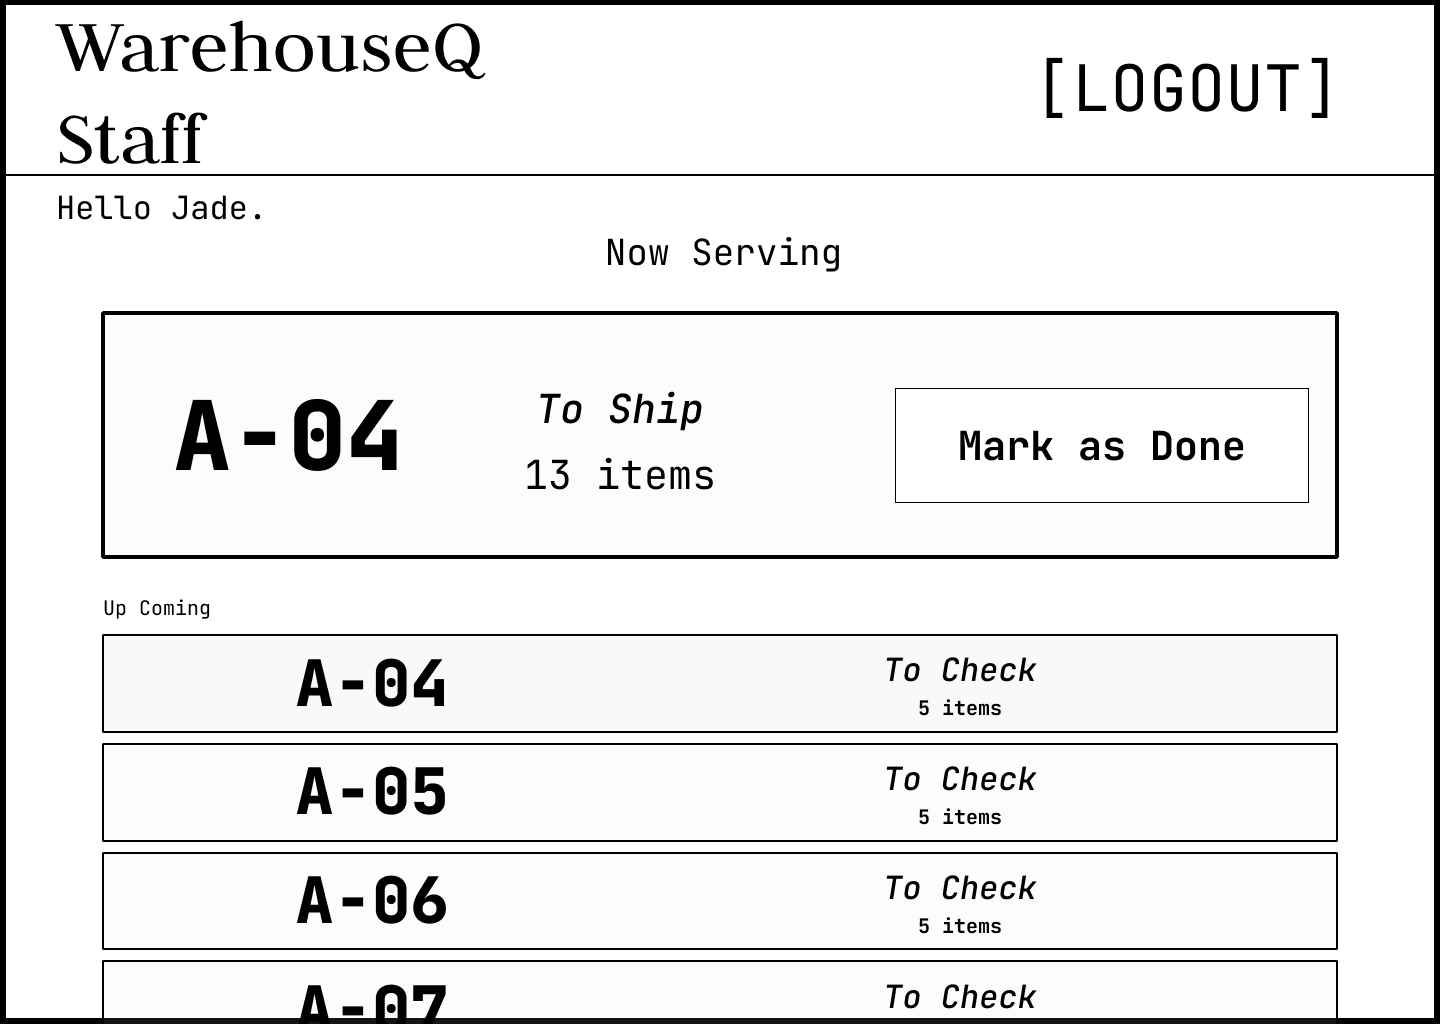
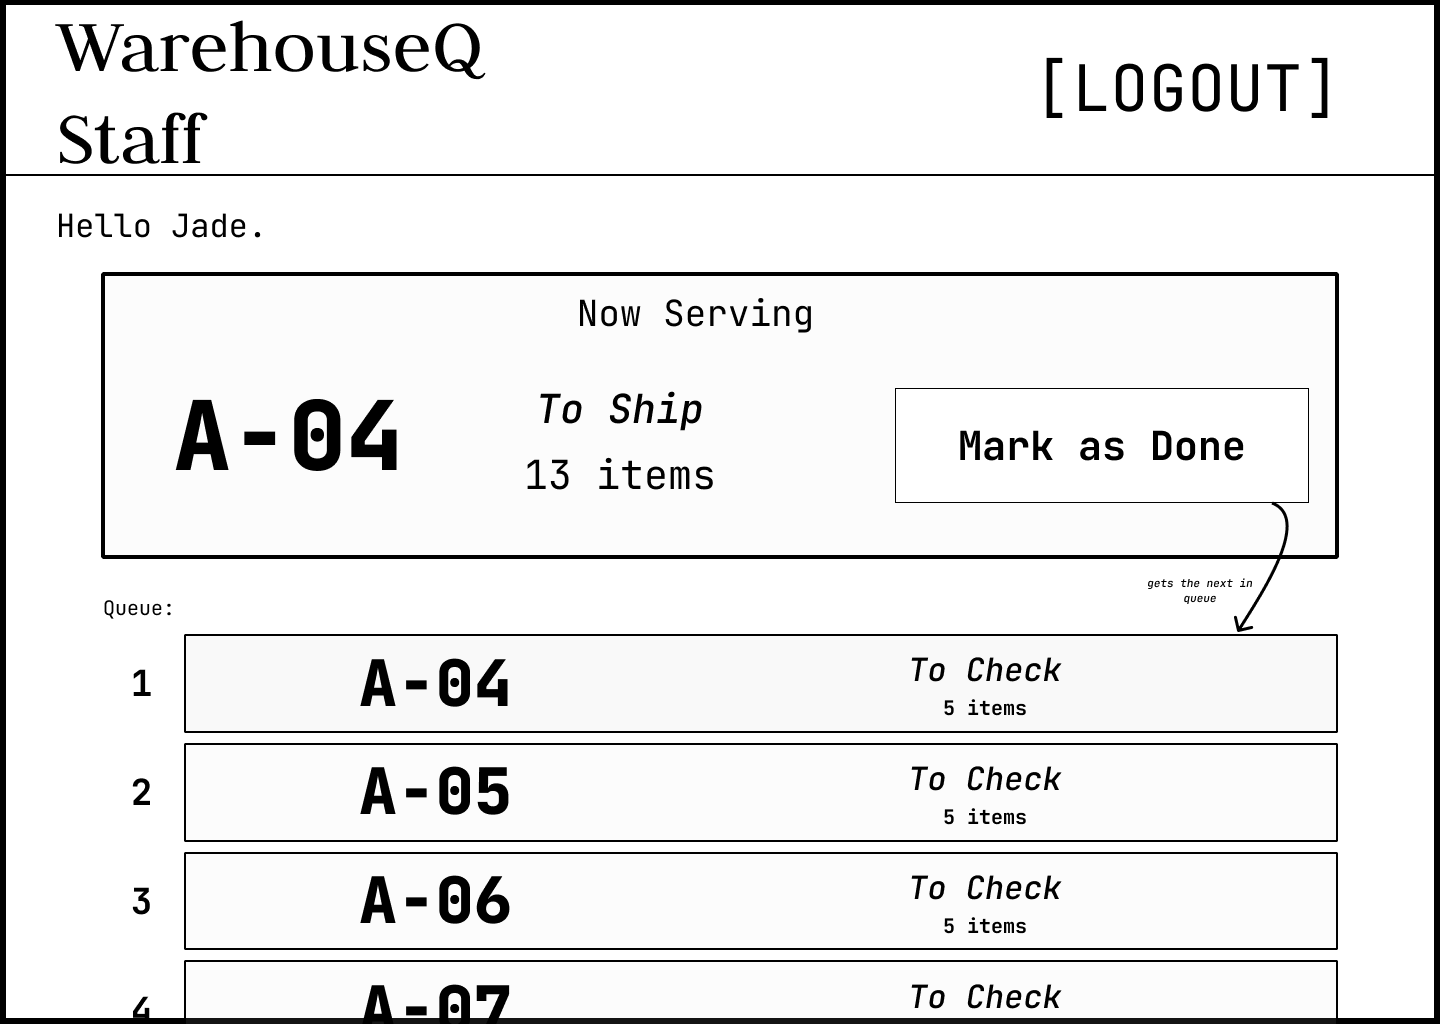
feedbacks

diff --git a/activities/queue-app/feedback.md b/activities/queue-app/feedback.md
@@ -1,0 +1,25 @@
+# Persona and wireframe self-review
+
+## Join the queue 
+
+**Works well:** Alex can recognize the item-entry form and the large **Check In** button quickly on both sizes. The phone layout keeps the form and main action prominent, supporting Alex's need to join while away from the desk.
+
+**Problem:** The screen appears to offer only **To Check**, with no clear way to choose **To Ship**. That could send Alex into the wrong queue. “Have items inspected” and “To Check” also describe the same service differently, which may cause hesitation. Ticket status does not apply until after check-in.
+
+**Change:** Show a home for **To Check** and **To Ship** as clearly labeled choices, and use the same service names throughout. Keep the selected service visible before Alex checks in.
+
+## My place
+
+**Works well:** The ticket number, service, people ahead, and current status are visible in both frames. The phone puts the ticket number and queue position where Alex can find them quickly.
+
+**Problem:** The status message says **“Please wait in the lounge,”** but Alex may be in the loading bay or truck cab. It also does not show what to do when Alex's turn arrives, or address the risk of missing a call in a noisy warehouse. On the phone, the status is less prominent than the ticket number.
+
+**Change:** Use a direct instruction such as **“Completed — please claim the items at designated station”** when called.
+
+## Staff dashboard
+
+**Works well:** **Now Serving** makes the current ticket easy to spot, and each queue entry shows its service and item count. The large **Mark as Done** button is easy to reach, including on the phone.
+
+**Problem:** The current ticket also appears in **Up Coming**, which could confuse Jade about queue order. The main action is **Mark as Done**, but Jade also needs to call the next person and handle no-shows. On the phone, the list requires scrolling, so those common actions should remain easy to find.
+
+**Change:** Remove the current ticket from **Up Coming** and make the order unambiguous. Add clear actions to call the next ticket, alongside completing service. Keep those actions large and easy to reach on the phone

diff --git a/activities/queue-app/hw3_queue_app.md b/activities/queue-app/hw3_queue_app.md
@@ -193,10 +193,10 @@ Save the files as `docs/week3/wireframes/` (PNG, JPG or PDF), for example `join-
 
 **Checkpoint 2**
 
-- [ ] Six frames: three screens, each at phone and laptop width.
-- [ ] Every frame names the persona, the device, and the requirement IDs.
-- [ ] The main flow for each persona is marked with arrows.
-- [ ] Committed in `docs/week3/wireframes/`.
+- [X] Six frames: three screens, each at phone and laptop width.
+- [X] Every frame names the persona, the device, and the requirement IDs.
+- [X] The main flow for each persona is marked with arrows.
+- [X] Committed in `docs/week3/wireframes/`.
 
 ---
 
@@ -223,9 +223,9 @@ Update your wireframes with the changes before you start Part 4.
 
 **Checkpoint 3**
 
-- [ ] `docs/week3/feedback.md` has a review of all three screens in the *Works well / Problem / Change* format.
-- [ ] Your wireframes are updated, or `feedback.md` explains why you kept them.
-- [ ] Committed.
+- [X] `docs/week3/feedback.md` has a review of all three screens in the *Works well / Problem / Change* format.
+- [X] Your wireframes are updated, or `feedback.md` explains why you kept them.
+- [X] Committed.
 
 ---
 
